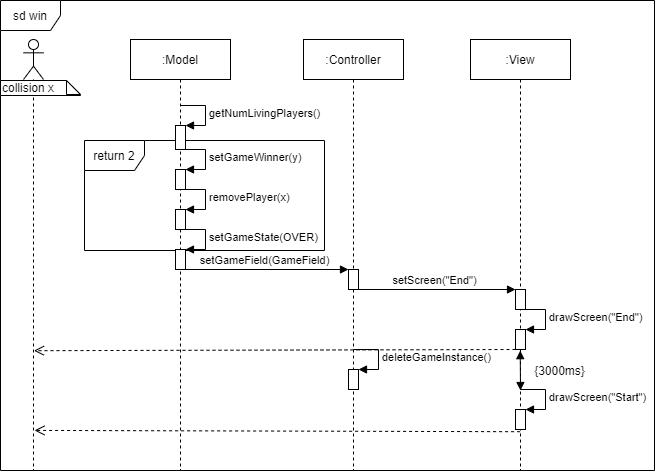
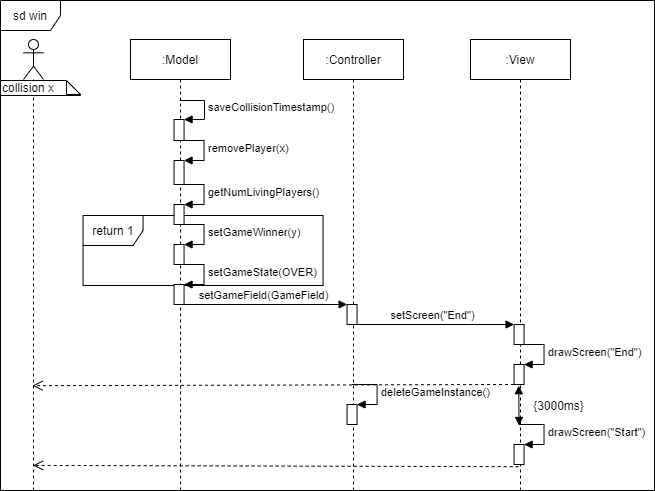
added UC7 + 8, modified UC6

diff --git a/Doku/Dokumentation_Tronspiel.md b/Doku/Dokumentation_Tronspiel.md
@@ -319,6 +319,12 @@ Methodenliste
 
 ## UC6 Win
 ![Sequenzdiagramm_Spielende](images/SD_UC6Win.png)
+
+## UC7 Lose
+![Sequenzdiagramm_Spielende](images/SD_UC7Lose.png)
+
+## UC8 Tie
+![Sequenzdiagramm_Spielende](images/SD_UC8Tie.png)
 ...
 
 # Verteilungssicht {#section-deployment-view}
